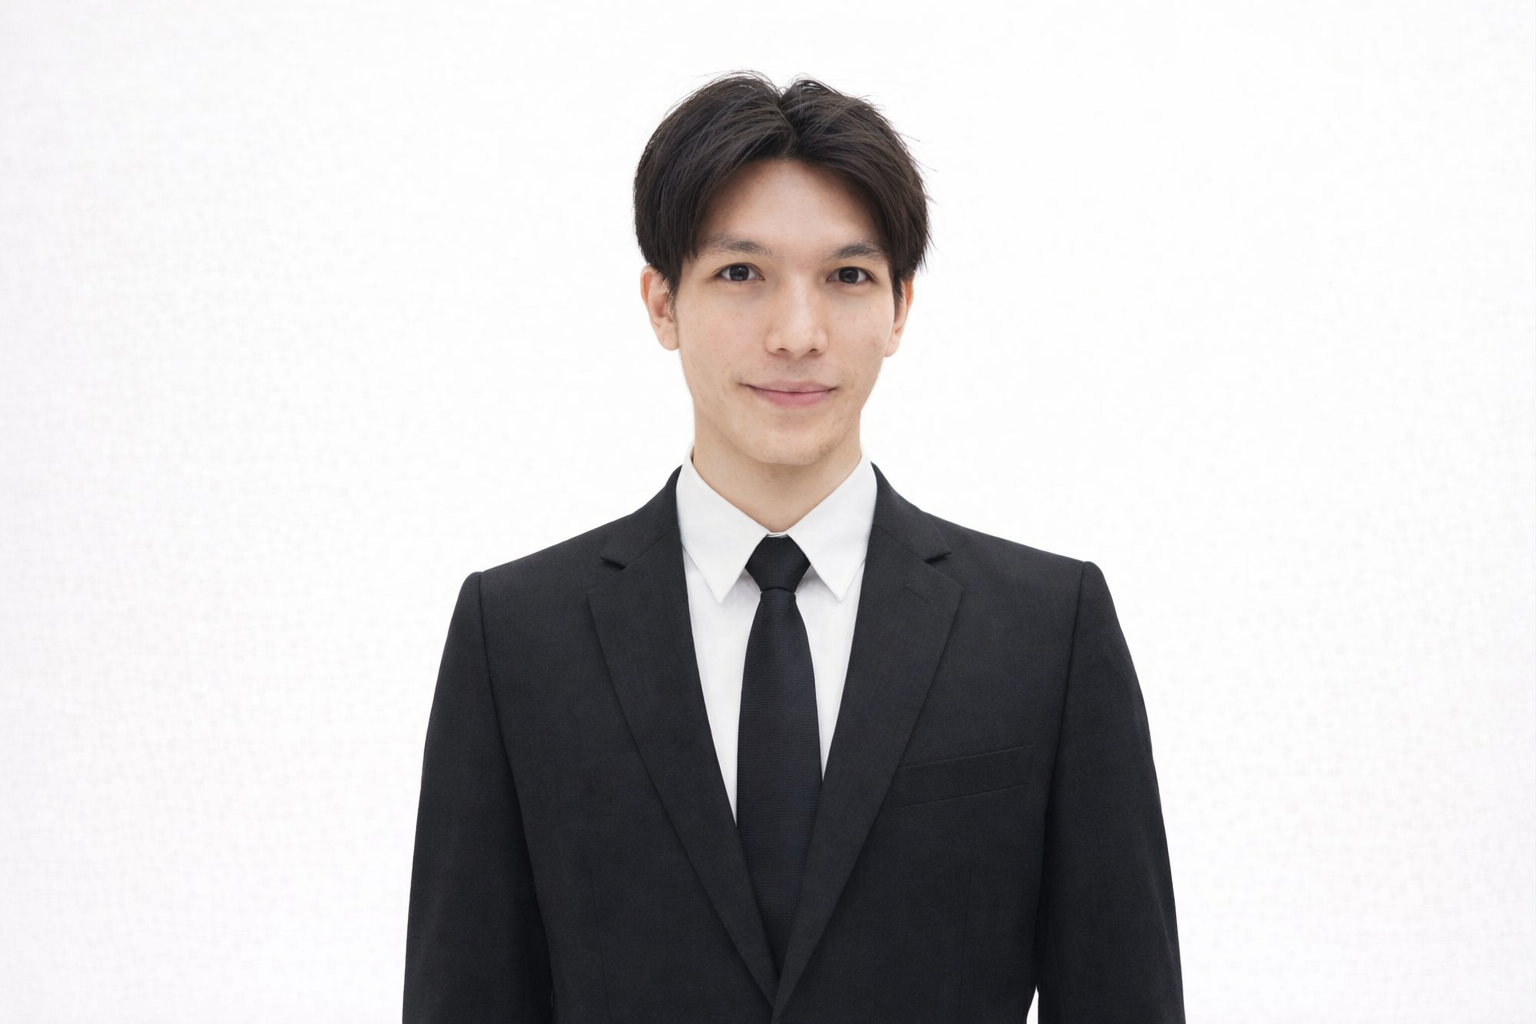
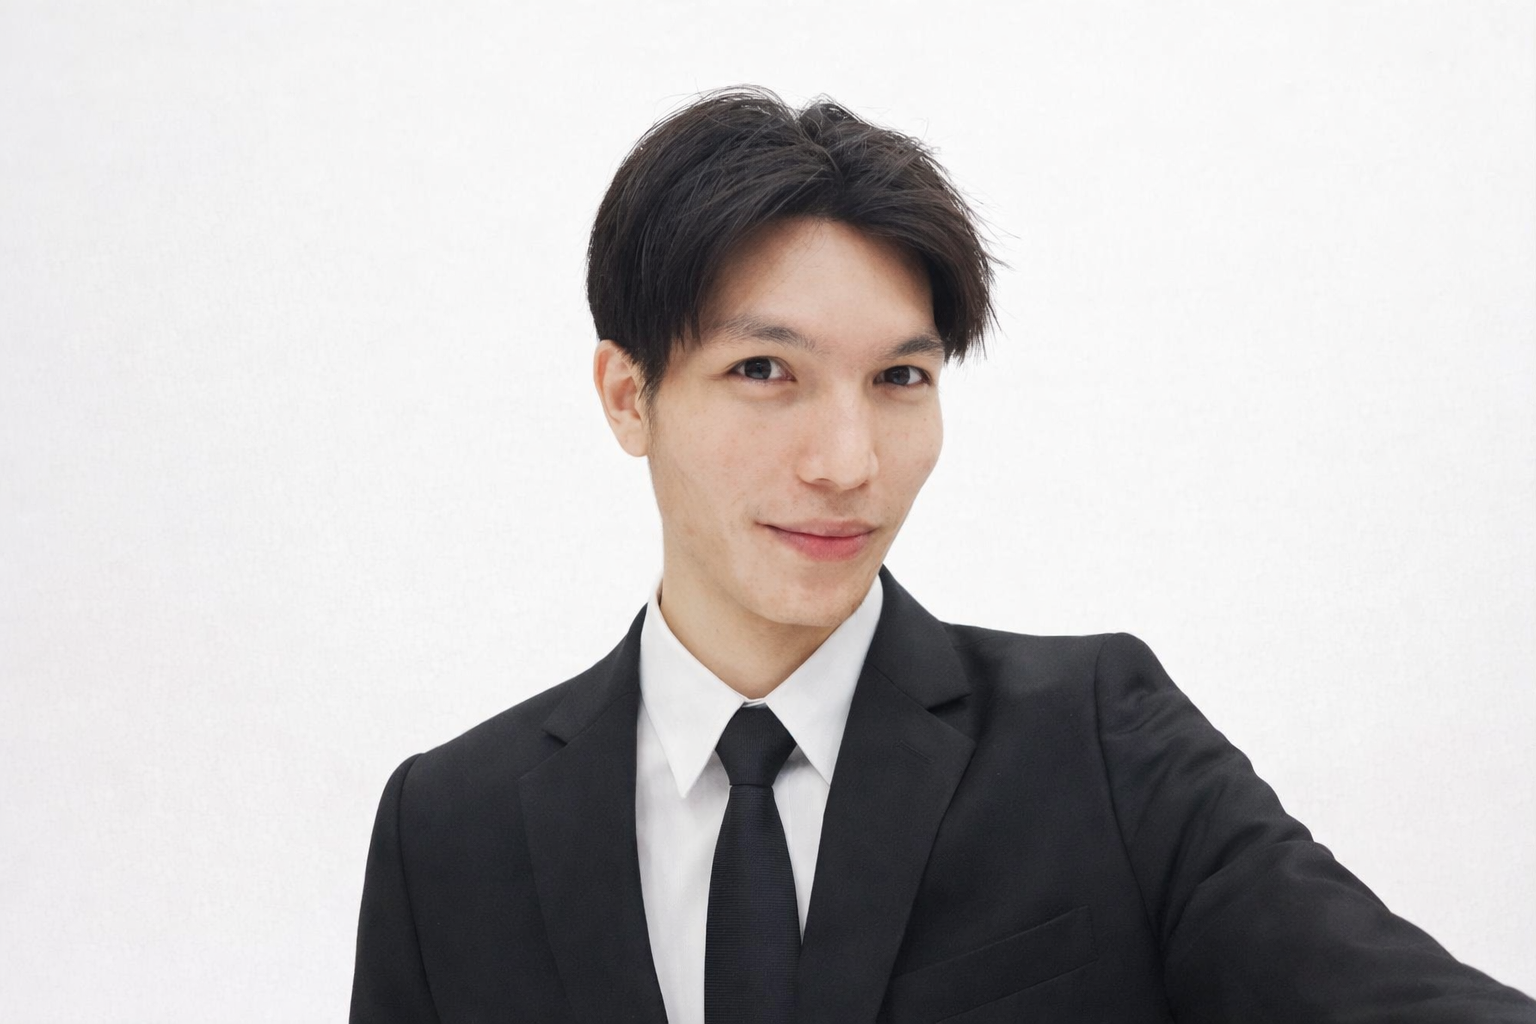
update

diff --git a/components/Hero.tsx b/components/Hero.tsx
@@ -1,42 +1,8 @@
 
-import React, { useState, useRef, useEffect } from 'react';
-import { MapPin, Library, User, GraduationCap, Camera } from 'lucide-react';
+import React from 'react';
+import { MapPin, Library, GraduationCap } from 'lucide-react';
 
 const Hero: React.FC = () => {
-  // Synchronous initialization from localStorage to prevent "flash" of missing state
-  const [profileImage, setProfileImage] = useState<string | null>(() => {
-    if (typeof window !== 'undefined') {
-      return localStorage.getItem('aung-ko-min-profile-image');
-    }
-    return null;
-  });
-  
-  const [useFallback, setUseFallback] = useState(false);
-  const fileInputRef = useRef<HTMLInputElement>(null);
-
-  const handleImageUpload = (event: React.ChangeEvent<HTMLInputElement>) => {
-    const file = event.target.files?.[0];
-    if (file) {
-      const reader = new FileReader();
-      reader.onloadend = () => {
-        const base64String = reader.result as string;
-        setProfileImage(base64String);
-        setUseFallback(false);
-        localStorage.setItem('aung-ko-min-profile-image', base64String);
-      };
-      reader.readAsDataURL(file);
-    }
-  };
-
-  const triggerUpload = () => {
-    fileInputRef.current?.click();
-  };
-
-  // Source priority: 
-  // 1. Manually uploaded image in localStorage
-  // 2. The static asset /profile.jpg
-  const currentSrc = profileImage || "/profile.jpg";
-
   return (
     <section id="home" className="relative pt-12 md:pt-28 pb-16 overflow-hidden bg-[#FDFCF8] dark:bg-slate-950 scroll-mt-20">
       {/* Decorative background elements */}
@@ -76,56 +42,23 @@ const Hero: React.FC = () => {
           </p>
         </div>
 
-        {/* Professional Portrait - Using CSS for Guaranteed Circle Shape */}
+        {/* Professional Portrait - Fixed Static Image */}
         <div className="relative shrink-0 order-1 lg:order-2 flex flex-col items-center">
-          <input 
-            type="file" 
-            ref={fileInputRef} 
-            onChange={handleImageUpload} 
-            accept="image/*" 
-            className="hidden" 
-          />
-
-          <div 
-            className="relative w-[280px] h-[280px] md:w-[380px] md:h-[380px] lg:w-[460px] lg:h-[460px] group cursor-pointer"
-            onDoubleClick={triggerUpload}
-            title="Double-click to change photo"
-          >
+          <div className="relative w-[280px] h-[280px] md:w-[380px] md:h-[380px] lg:w-[460px] lg:h-[460px] aspect-square">
             {/* Outer shadow glow */}
-            <div className="absolute inset-0 bg-amber-200/20 dark:bg-amber-500/10 rounded-full blur-2xl group-hover:blur-3xl transition-all duration-700 no-print"></div>
+            <div className="absolute inset-0 bg-amber-200/20 dark:bg-amber-500/10 rounded-full blur-2xl no-print"></div>
             
             {/* The Outer Ring Wrapper */}
-            <div className="relative w-full h-full rounded-full p-2 bg-gradient-to-tr from-amber-100 via-white to-indigo-100 dark:from-slate-800 dark:via-slate-900 dark:to-slate-800 shadow-2xl transition-transform duration-700 group-hover:scale-[1.01] flex items-center justify-center">
+            <div className="relative w-full h-full rounded-full p-2 bg-gradient-to-tr from-amber-100 via-white to-indigo-100 dark:from-slate-800 dark:via-slate-900 dark:to-slate-800 shadow-2xl flex items-center justify-center">
               
-              {/* Inner Circle Container - This forces the circular shape even if img fails */}
+              {/* Inner Circle Container - Guaranteed circular shape */}
               <div className="w-full h-full rounded-full border-[8px] border-white dark:border-slate-800 overflow-hidden bg-slate-50 dark:bg-slate-900 relative z-10 flex items-center justify-center">
+                <img 
+                  src="/profile.png" 
+                  alt="Matty profile photo" 
+                  className="w-full h-full object-cover transition-transform duration-1000"
+                />
                 
-                {/* Image or Fallback */}
-                {(!useFallback || profileImage) ? (
-                  <img 
-                    src={currentSrc} 
-                    alt="Aung Ko Min" 
-                    className="w-full h-full object-cover transition-transform duration-1000 group-hover:scale-110"
-                    onError={() => {
-                      // Only trigger fallback if we don't have a user-uploaded image
-                      if (!profileImage) setUseFallback(true);
-                    }}
-                  />
-                ) : (
-                  <div className="w-full h-full bg-slate-100 dark:bg-slate-800 flex flex-col items-center justify-center text-slate-300 p-8 text-center">
-                    <User className="w-20 h-20 md:w-32 md:h-32 mb-4 opacity-20" />
-                    <p className="text-[0.6rem] md:text-xs font-black uppercase tracking-[0.2em] opacity-40">Double-click to set photo</p>
-                  </div>
-                )}
-                
-                {/* Hover hint overlay */}
-                <div className="absolute inset-0 bg-black/40 opacity-0 group-hover:opacity-100 transition-opacity flex items-center justify-center z-20 no-print">
-                   <div className="flex flex-col items-center text-white gap-2">
-                     <Camera className="w-8 h-8" />
-                     <span className="text-[0.6rem] font-bold uppercase tracking-widest">Change Photo</span>
-                   </div>
-                </div>
-
                 {/* Overlay gradient for depth */}
                 <div className="absolute inset-0 bg-gradient-to-b from-transparent via-transparent to-black/5 pointer-events-none z-10"></div>
               </div>
